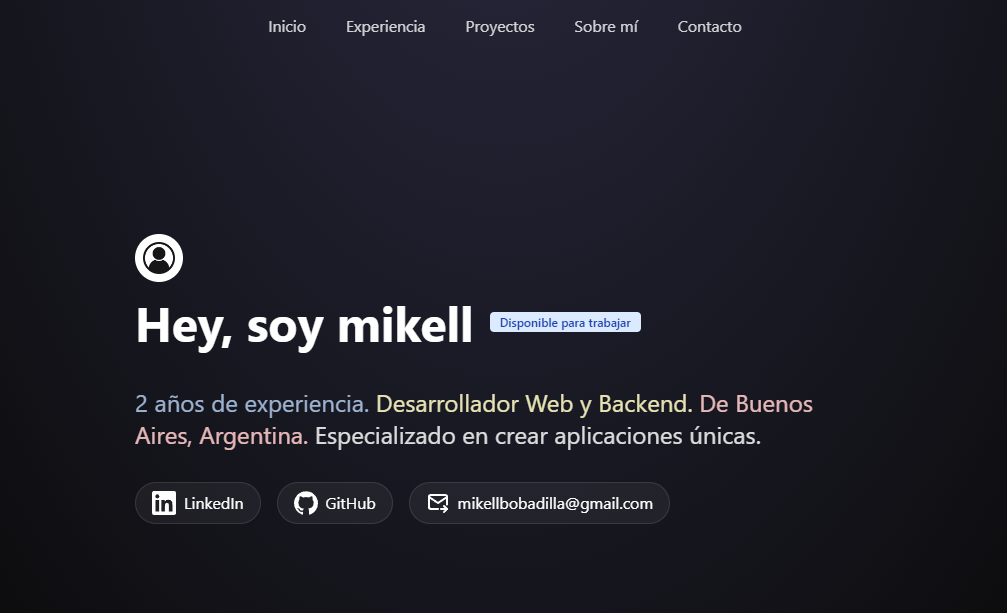
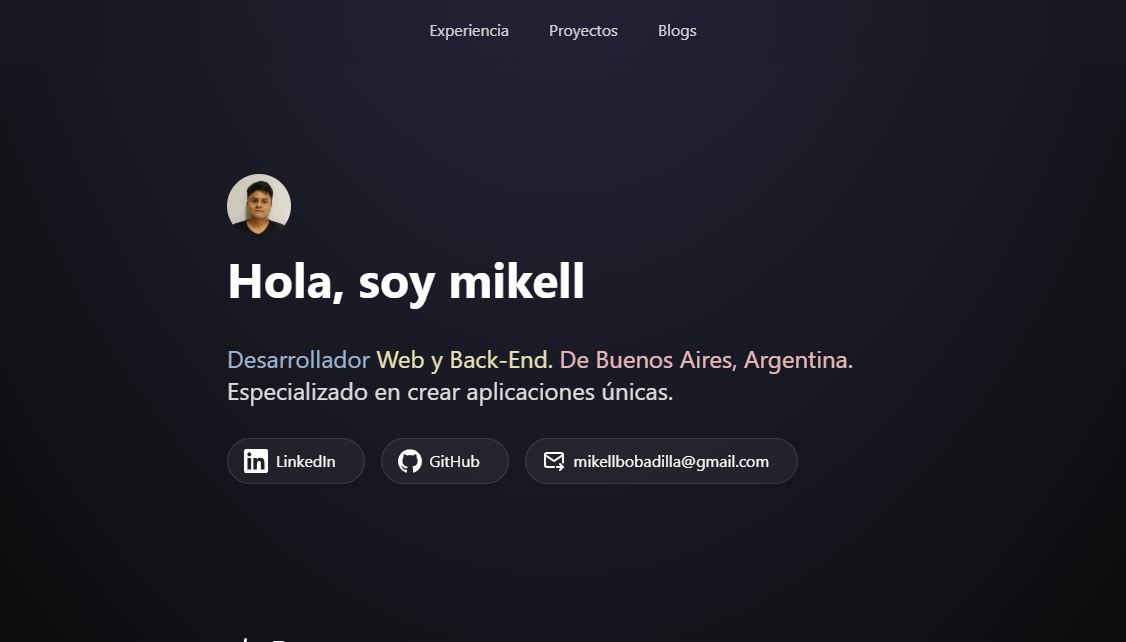
[new] Add better responsive design, inpired by mobile first

diff --git a/README.md b/README.md
@@ -1,3 +1,5 @@
 # Portafolio de Mikell Bobadilla
 
-![captura de pantalla del portafolio de Mikell Bobadilla](image.png)
+Página inspirada en el curso de Astro de Midu-dev
+
+![Alt text](image.png)
